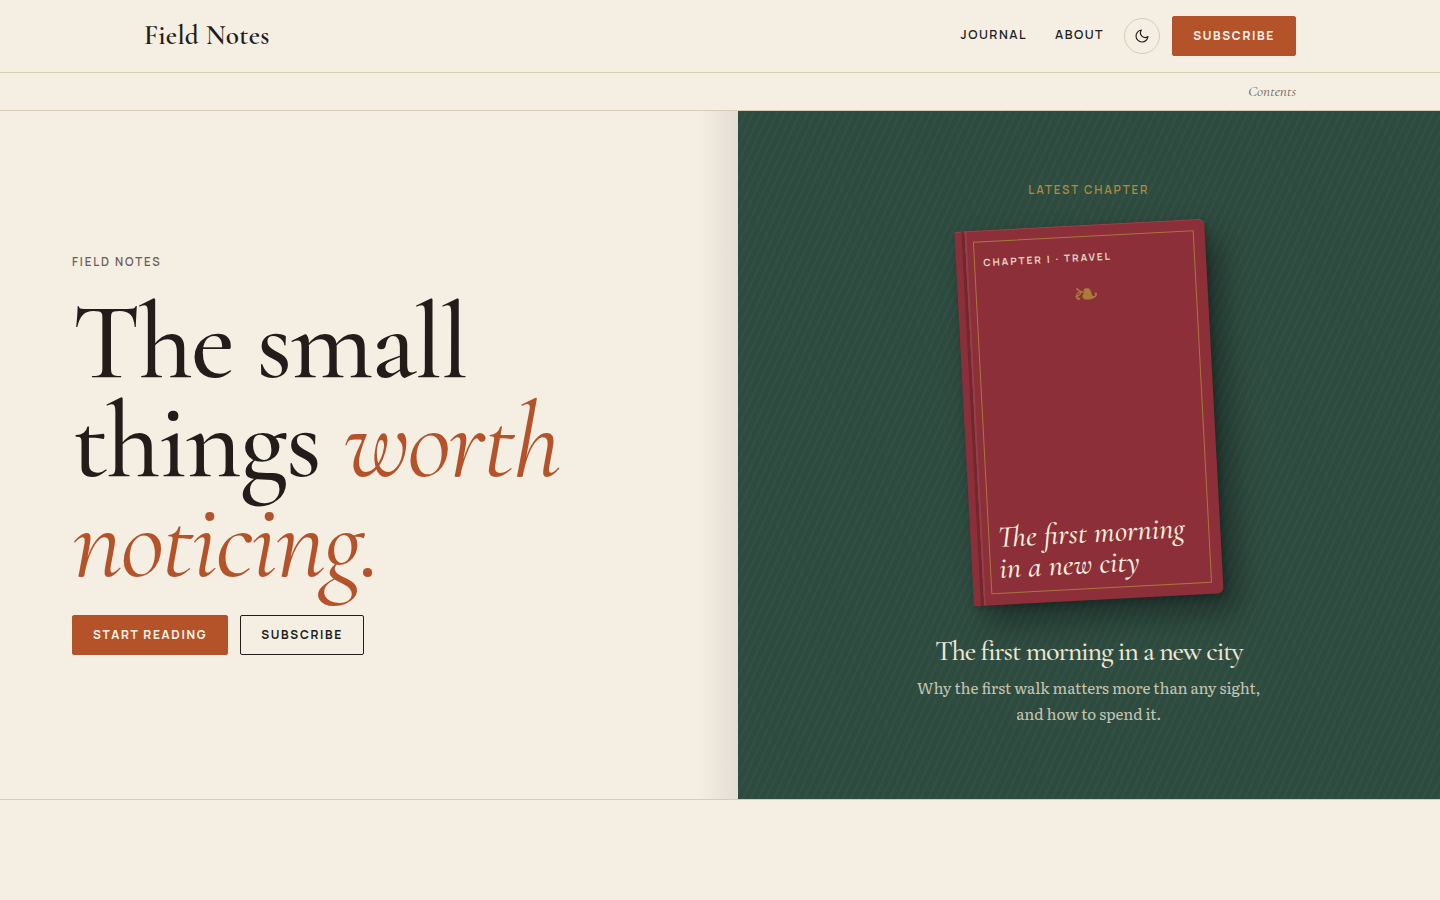
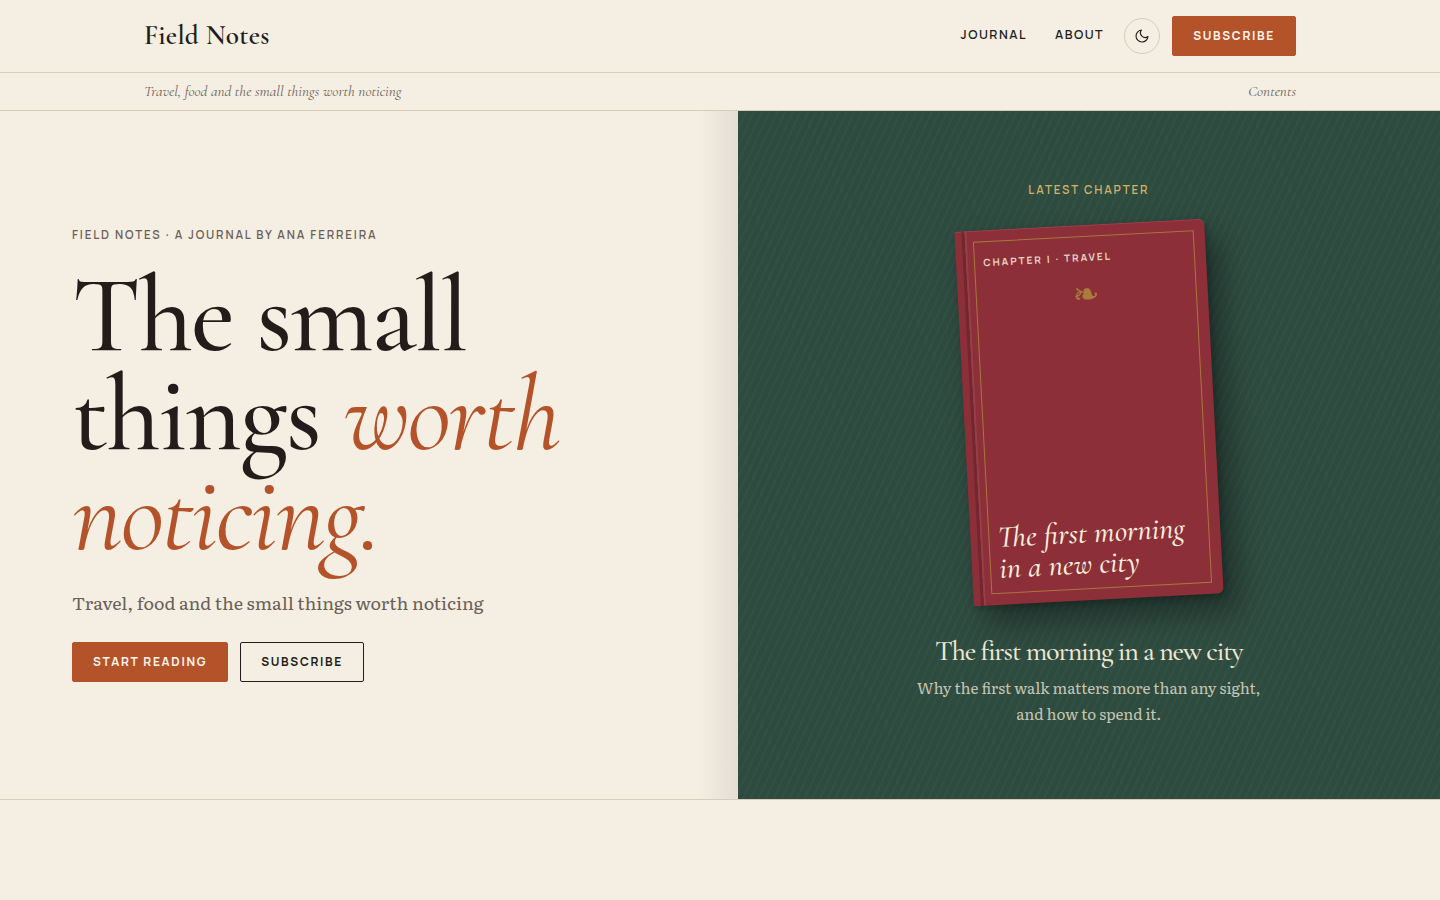
feat(kimyou): readme, changelog and registry screenshot

diff --git a/themes/kimyou/README.md b/themes/kimyou/README.md
@@ -19,16 +19,36 @@ hatamoto theme activate kimyou
 Layouts and sections the theme does not ship come from the built-in theme, so every
 page keeps rendering.
 
+## What it ships
+
+- Home, single post, about page, archive, category and tag, author, search and 404 layouts.
+- A header with the menu, a colour toggle and a button, and a running head with the site tagline and the section; the menu works without JavaScript on small screens.
+- A cover with a two-tone headline beside the latest post as a book, a numbered contents list, a shelf where every category is a spine, a books section, a pull quote and a journal grid, all filled from your content and hidden when there is nothing to show.
+- Posts as chapters: a drop cap, section signs, an avatar byline, an author box and previous and next chapter links.
+- Light and dark. No JavaScript is needed for anything except the colour toggle.
+
 ## Settings
 
-**Theme > Themes > Kimyou > Settings**:
+**Theme > Themes > Kimyou > Settings**. Every setting has a default.
 
-| Setting | Default | What it does |
-| --- | --- | --- |
-| Colour mode | `light` | what a first visit shows: `light`, `dark` or `auto` (follows the system); visitors can still switch |
-| Spacing | `comfortable` | `compact` tightens the space between sections |
+| Setting | Type | Default | What it does |
+| --- | --- | --- | --- |
+| Colour mode (`color_mode`) | `light`, `dark`, `auto` | `auto` | What a first visit shows; `auto` follows the system. Visitors can still switch with the header toggle. |
+| Spacing (`density`) | `comfortable`, `compact` | `comfortable` | `compact` tightens the space between sections. |
+| Home headline (`home_headline`) | text | `The small things \| worth noticing.` | The cover headline. Text after `\|` is set in italic in the primary colour. Empty uses the default. |
+| Home lede (`home_lede`) | text | empty | The line under the headline. Empty uses the site tagline. |
+| Show the shelf (`show_shelf`) | on/off | on | The shelf of categories on the home page. |
+| Books category (`books_category`) | category slug | `books` | The category shown in "On books". Empty, or a slug that does not exist, hides the section. |
+| Ornaments (`ornaments`) | `full`, `quiet` | `full` | `quiet` drops the drop cap, section signs, fleurons, roman numerals and "Chapter" labels, and sets titles upright. |
 
-Colours, fonts and corners follow **Theme > Colours and fonts**.
+Colours, fonts and corners follow **Theme > Colours and fonts**. The paper, shelf and cloth tones are the theme's own, set for contrast on the default palette.
+
+## Fonts
+
+[Cormorant Garamond](https://fonts.google.com/specimen/Cormorant+Garamond) (headings),
+[Literata](https://fonts.google.com/specimen/Literata) (text) and
+[Manrope](https://fonts.google.com/specimen/Manrope) (labels), all under the SIL Open Font
+License 1.1, bundled in `assets/fonts/` with their licences.
 
 ## Develop
 
@@ -36,7 +56,7 @@ From the root of the `hatamoto-themes` repository:
 
 ```sh
 scripts/dev-site.sh blog themes/kimyou --serve   # a seeded local site with this theme, live reload
-scripts/check.sh themes/kimyou                            # the full check: package, render, browser, screenshot
+scripts/check.sh themes/kimyou --screenshot       # the full check, and the registry preview
 ```
 
 `dev/` is not part of the package.
